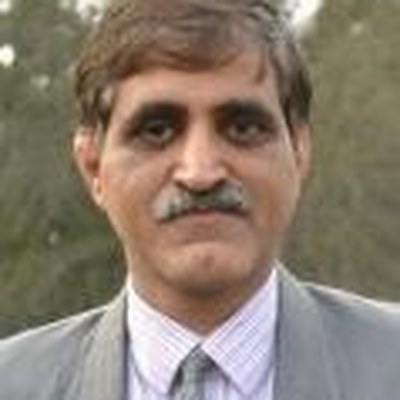
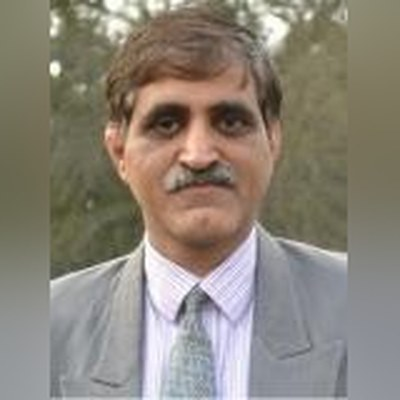
Show the whole face, and set the advisory board six across
The first pass cut a square out of each photograph, which clipped the top of
the head wherever the subject sat high in the frame — Suri, Rangnekar and
Majumdar all lost hair off the top edge. Pad the shorter side instead, using a
blurred enlargement of the picture itself so the added margin carries its own
colour: the whole photograph survives and the background is extended rather
than the face trimmed.

Four photographs still need a box drawn round the head, because padding would
leave the face too small to read at 96px: a full-length shot outdoors, two
taken across a room, and one portrait whose padding showed as blue bars.

Four more members join, and the grid goes to six across, which is what
thirteen cards want — three columns left an orphan on a row of its own.

diff --git a/src/components/landing/LandingPage.tsx b/src/components/landing/LandingPage.tsx
@@ -430,6 +430,22 @@ export const ADVISORY_BOARD = [
     name: "Prof M. P. Gupta",
     org: "Director, Indian Institute of Management Lucknow",
   },
+  {
+    name: "Prof Neetu Yadav",
+    org: "Associate Professor, Birla Institute of Technology and Science, Pilani",
+  },
+  {
+    name: "Prof Sanjay Dhir",
+    org: "Fellow, IIM Lucknow · Professor, DMS, Indian Institute of Technology Delhi",
+  },
+  {
+    name: "Prof Kirankumar S. Momaya",
+    org: "Chair Professor, Indian Institute of Technology Bombay",
+  },
+  {
+    name: "Prof Ramesh Anbanandam",
+    org: "Indian Institute of Technology Roorkee",
+  },
 ];
 
 /* Members are listed alphabetically, ignoring the honorific — sorted here
@@ -505,6 +521,10 @@ const PORTRAITS: Record<string, string> = {
   "Dr Abid Haleem": "/people/abid-haleem.jpg",
   "Prof Shveta Singh": "/people/shveta-singh.jpg",
   "Prof M. P. Gupta": "/people/mp-gupta.jpg",
+  "Prof Neetu Yadav": "/people/neetu-yadav.jpg",
+  "Prof Sanjay Dhir": "/people/sanjay-dhir.jpg",
+  "Prof Kirankumar S. Momaya": "/people/kirankumar-momaya.jpg",
+  "Prof Ramesh Anbanandam": "/people/ramesh-anbanandam.jpg",
   "Prof (Dr) Seema Gupta": "/people/seema-gupta.jpg",
   "Prof (Dr) Saumyaranjan Sahoo": "/people/saumyaranjan-sahoo.jpg",
   "Prof (Dr) A. Manish Kumar": "/people/a-manish-kumar.jpg",
@@ -1417,7 +1437,7 @@ export function LandingPage() {
               <p className="text-[11px] font-semibold tracking-wide mb-3 text-slate-500 dark:text-slate-400">
                 Advisory Board
               </p>
-              <div className="grid gap-4 sm:grid-cols-2 lg:grid-cols-3">
+              <div className="grid gap-3 grid-cols-2 sm:grid-cols-3 lg:grid-cols-6">
                 {ADVISORY_BOARD.map((p) => (
                   <div key={p.name} className="card card-pad text-center card-hover">
                     <div className="flex justify-center mb-3">
